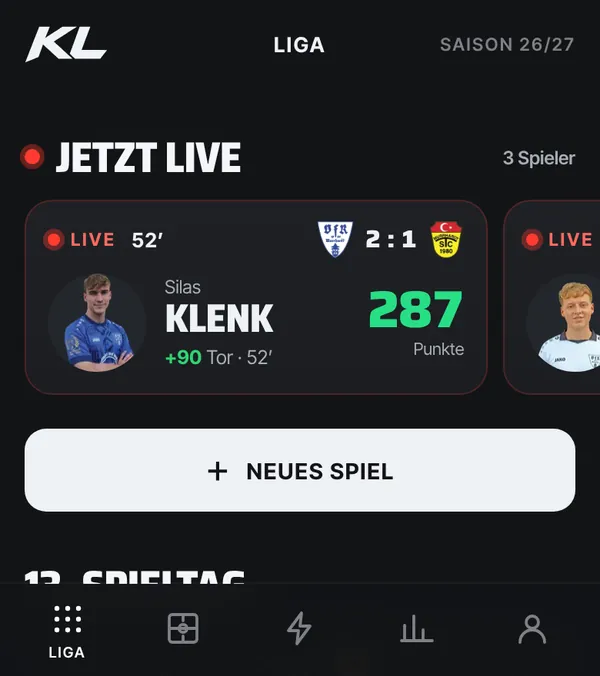
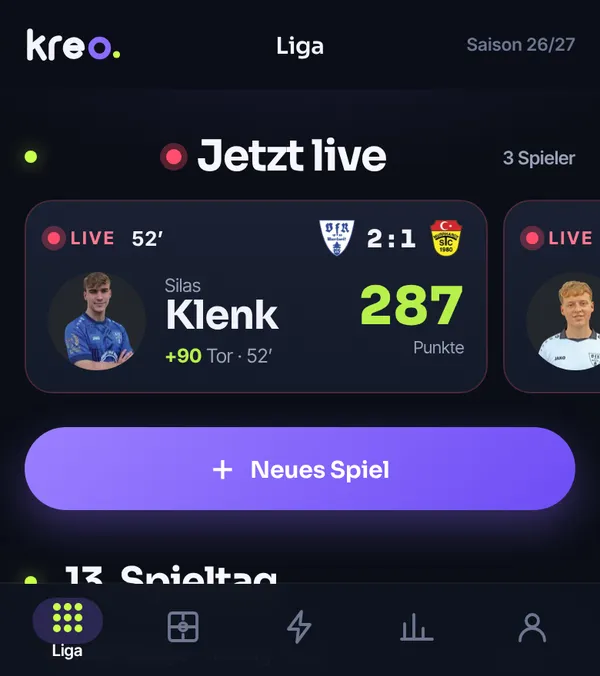
Rundgang-Bilder im Kreo-Look neu aufgenommen
- 11 Screenshots (a-*, b-*) mit Testdaten neu erzeugt, WebP 600x676
- V in intro.js auf 4, Version 2.0.1
- Ueberschrift Jetzt live ohne zweiten Punkt

Claude-Session: https://claude.ai/code/session_01RQDoQ1KZNpAJJtEqobzs28

diff --git a/js/ui/intro.js b/js/ui/intro.js
@@ -9,7 +9,7 @@ import { ACT } from '../core/game.js';
 import { qrSvg } from '../core/qr.js';
 import { KEYS, APP_URL, APP_NAME } from '../config.js';
 
-const IMG = 'assets/img/tut/', V = '.webp?v=3'; // neue Bilder: v hochzählen (der Service Worker hält Bilder sonst für immer)
+const IMG = 'assets/img/tut/', V = '.webp?v=4'; // neue Bilder: v hochzählen (der Service Worker hält Bilder sonst für immer)
 /* Folien: { s: Screenshot der App } oder { f: Foto von uns, chips: [[Aktion, Punkte]], inset: kleiner Screenshot, logo } */
 const APP = [
   { f: 'f-duell', logo: 1, t: 'Willkommen bei Kreo', x: 'Unsere Kreisliga mit Punkten, Marktwerten und Live-Ticker – direkt vom Spielfeldrand.' },

diff --git a/css/kreo.css b/css/kreo.css
@@ -94,3 +94,6 @@ body { background: radial-gradient(120% 60% at 50% -10%, rgba(var(--acc-rgb), .1
 /* Zwischenüberschriften (Spieluhr, Spieler …): klein, normale Schreibweise, mit Kreo-Punkt */
 .eb h2, .sec { text-transform: none; letter-spacing: 0; font: 600 14px var(--font-head); color: var(--muted); }
 .eb h2::before, .sec::before { content: ""; display: inline-block; width: 6px; height: 6px; margin-right: 8px; border-radius: 50%; background: var(--acc); vertical-align: 2px; }
+
+/* „Jetzt live“ hat schon den roten Live-Punkt */
+#startBody > h2.lvh::before { display: none; }

diff --git a/sw.js b/sw.js
@@ -5,7 +5,7 @@
    Bilder (Spielerfotos, Wappen): nur einmal laden, danach immer aus dem Cache – kein erneutes Herunterladen.
    Geänderte Fotos bekommen eine neue Adresse (?v=…), alte Einträge werden beim Versionswechsel aufgeräumt.
    Datenbank-Anfragen (REST/Auth) werden nie zwischengespeichert. */
-const VERSION = 'kreo-v2.0.0';
+const VERSION = 'kreo-v2.0.1';
 const APP = 'app-' + VERSION;
 const IMG = 'img-v3';
 const SHELL = [

diff --git a/js/config.js b/js/config.js
@@ -12,7 +12,7 @@ export const VAPID_PUBLIC = 'BPpdkr18TxFId_jZJ6A0qLOo3pkdTIdKzKqfSYsnChxvth3Oq3V
 export const SEASON = '2026/2027';
 
 /* Angezeigte Version (Konto-Seite) – zusammen mit VERSION in sw.js hochzählen */
-export const APP_VERSION = '2.0.0';
+export const APP_VERSION = '2.0.1';
 /* Name der App (Titel, Teilen-Bilder, Benachrichtigungen) */
 export const APP_NAME = 'Kreo';
 
